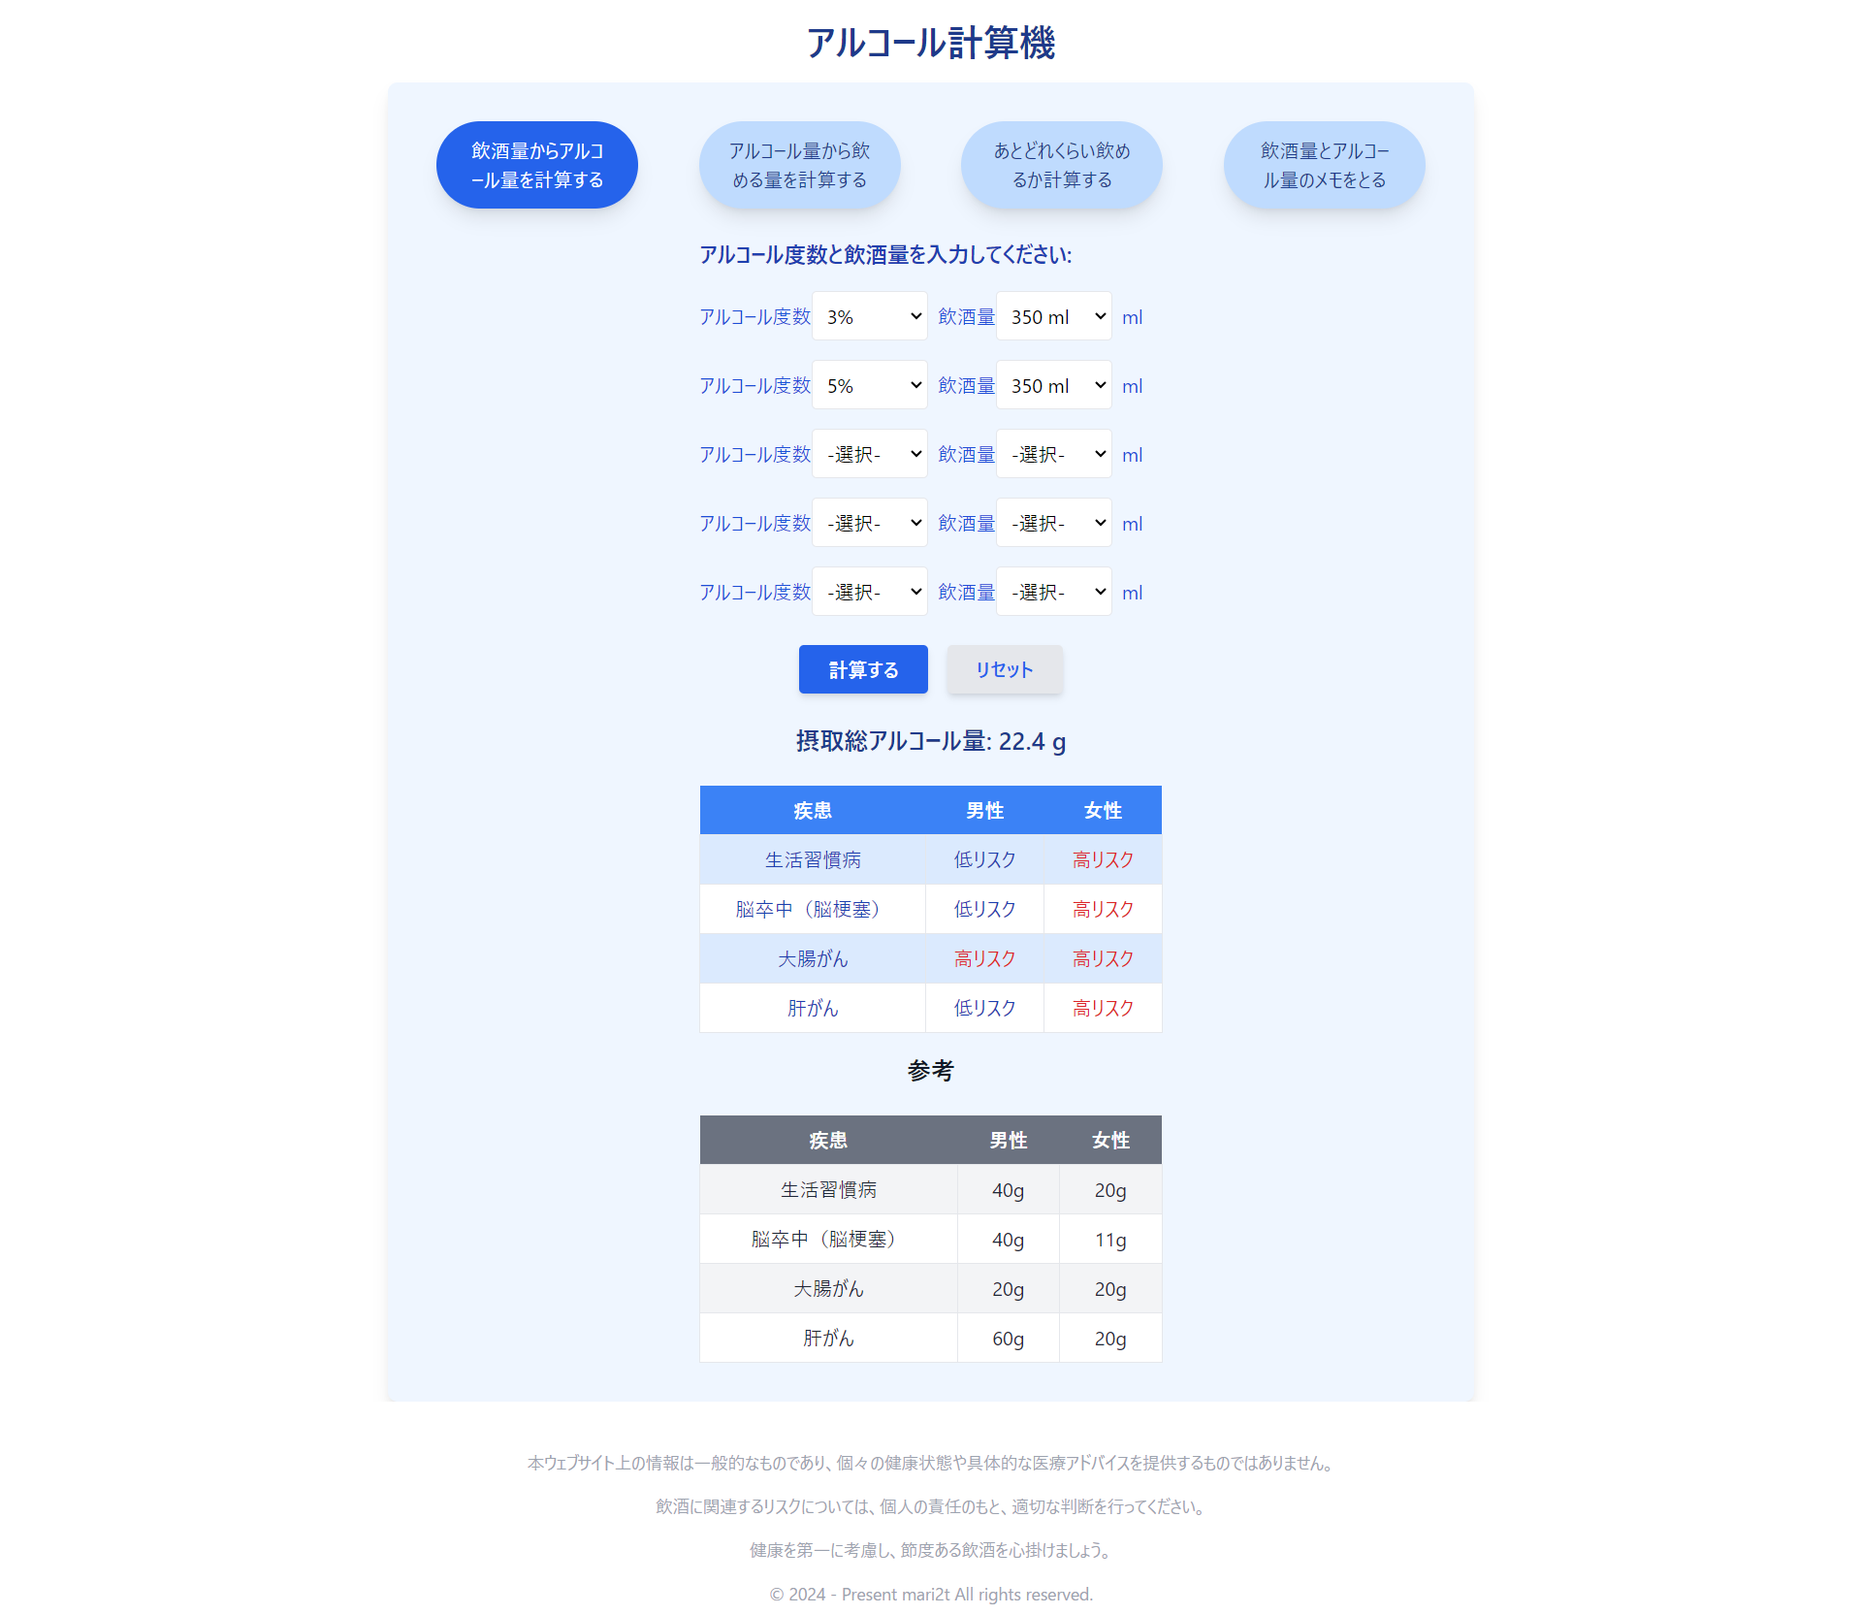
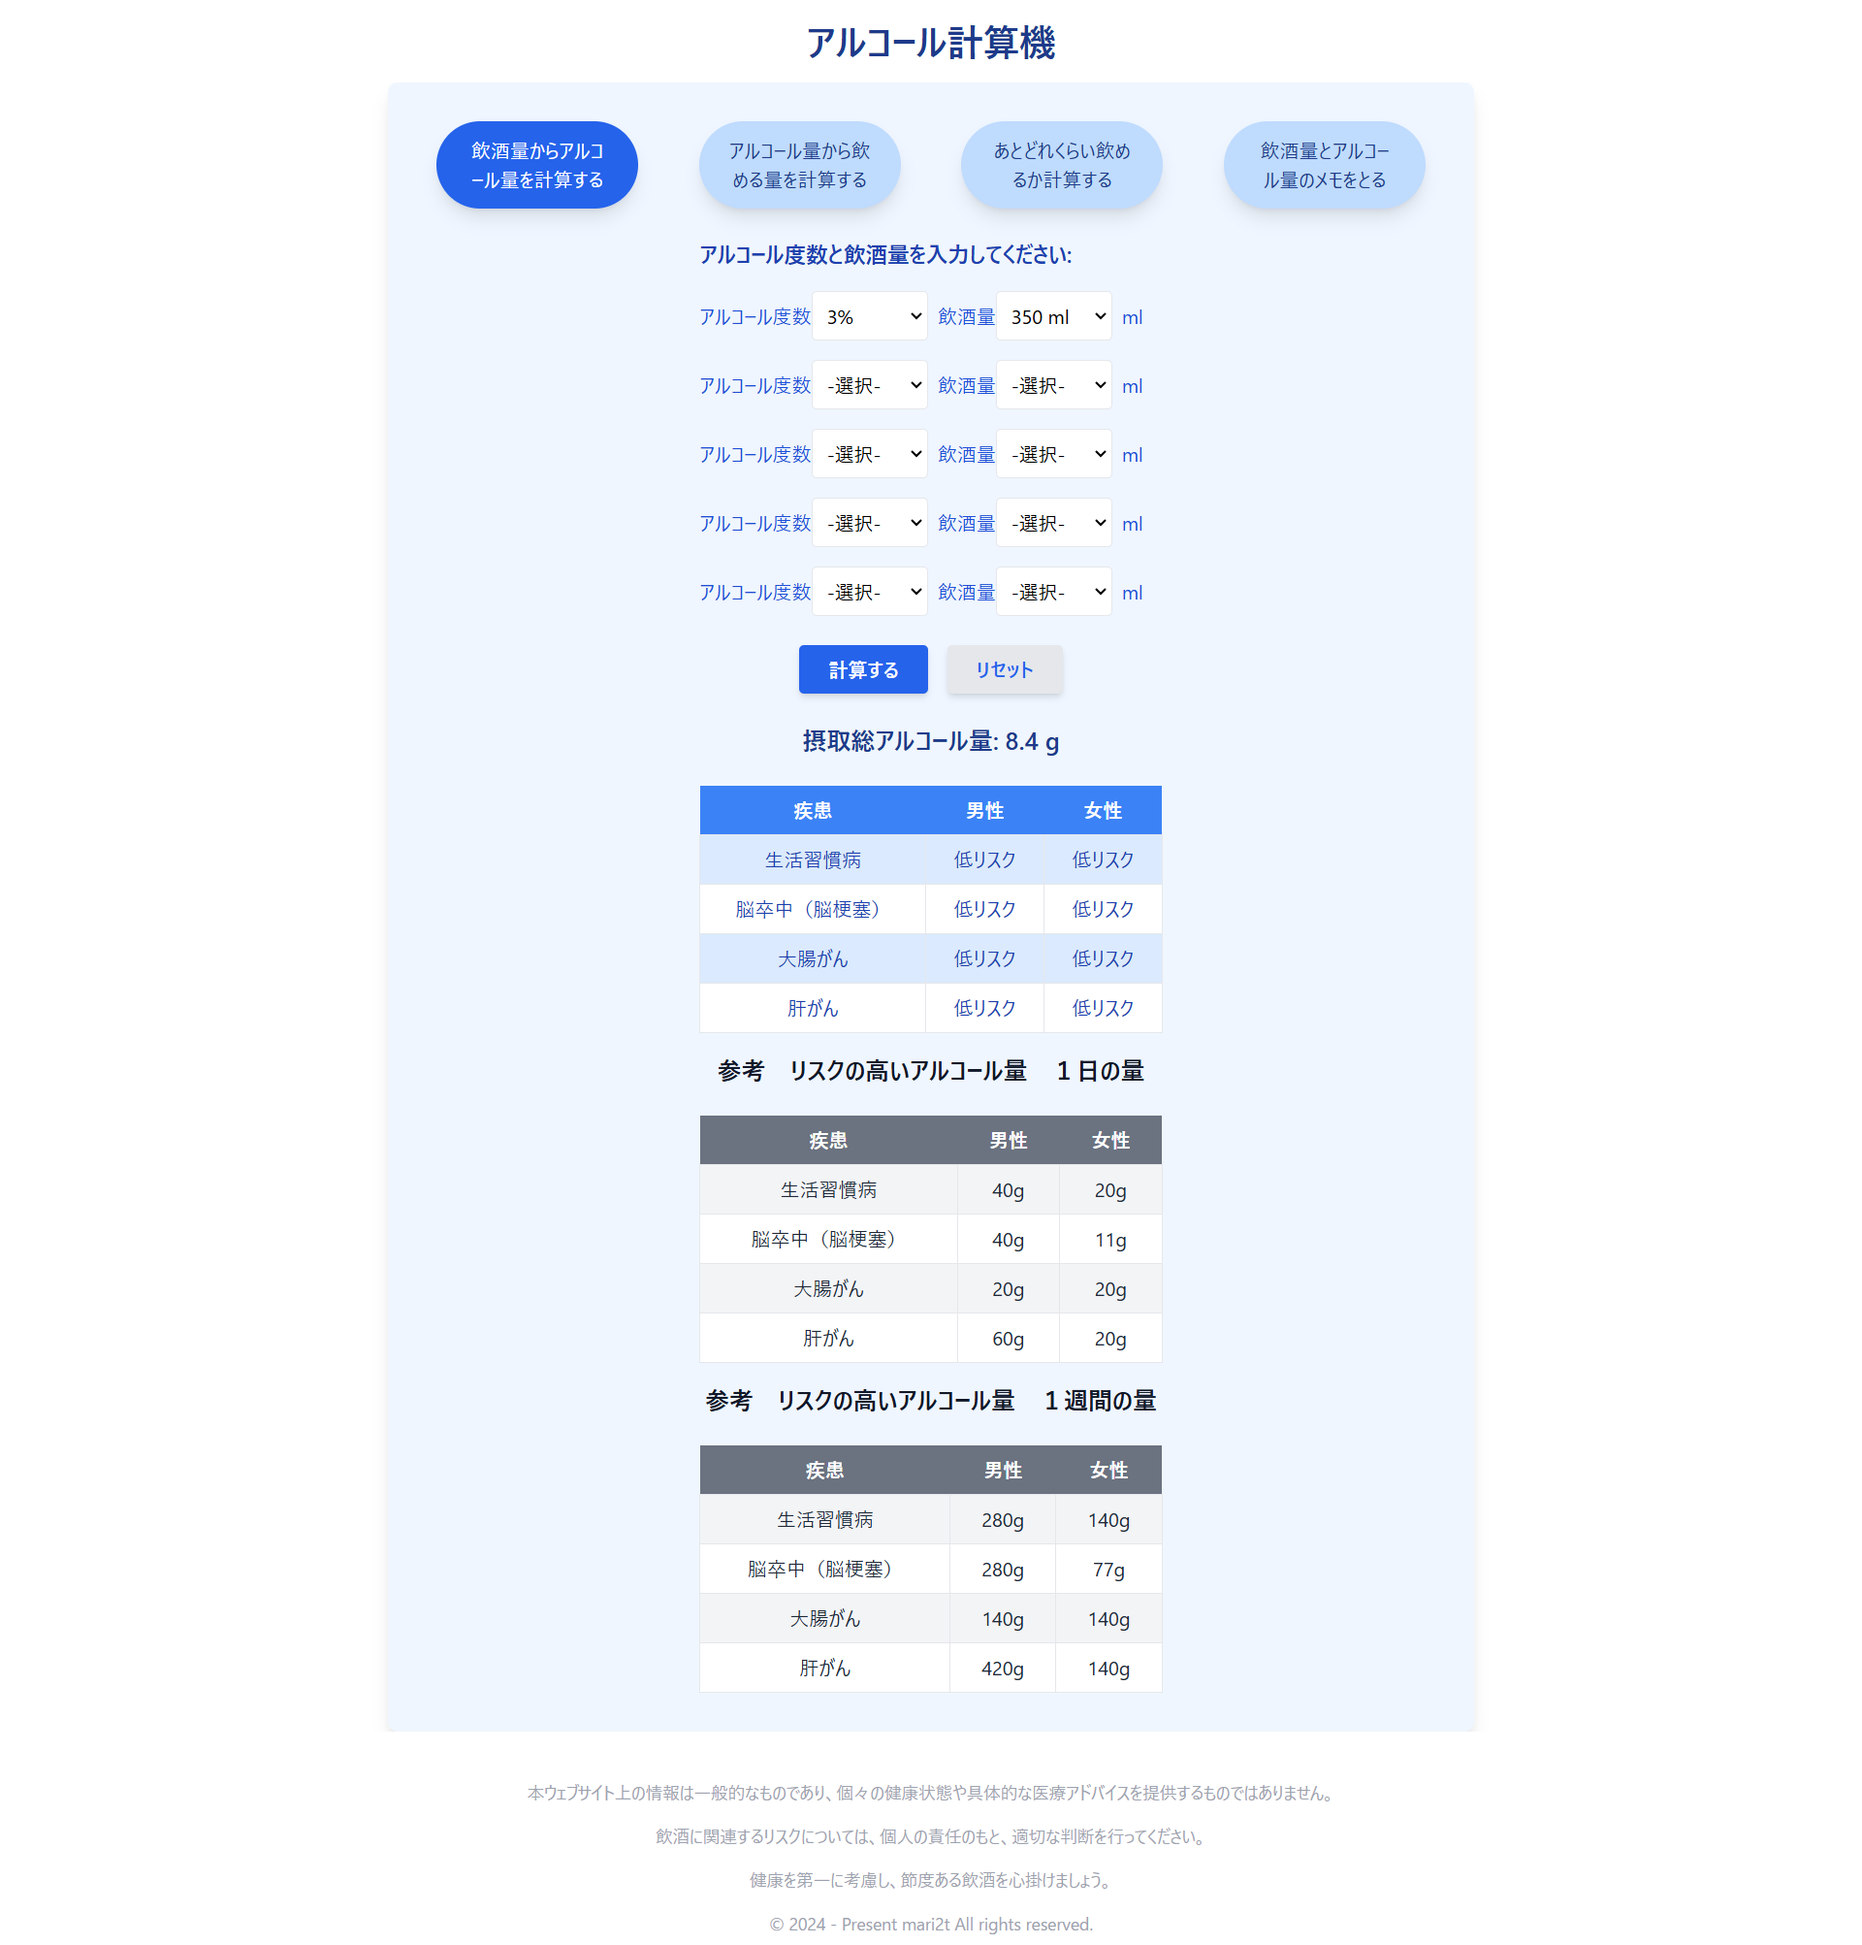
feat : exampleの画像を現状に合わせて差し替えた。

diff --git a/MakeLog.md b/MakeLog.md
@@ -1,5 +1,9 @@
 # 作成ログ
 
+## 2025/2/16
+
+1. exampleの画像を現状に合わせて差し替えた。
+
 ## 2025/2/15
 
 1. 37%の選択肢を追加（ウイスキーでよくあるため）
